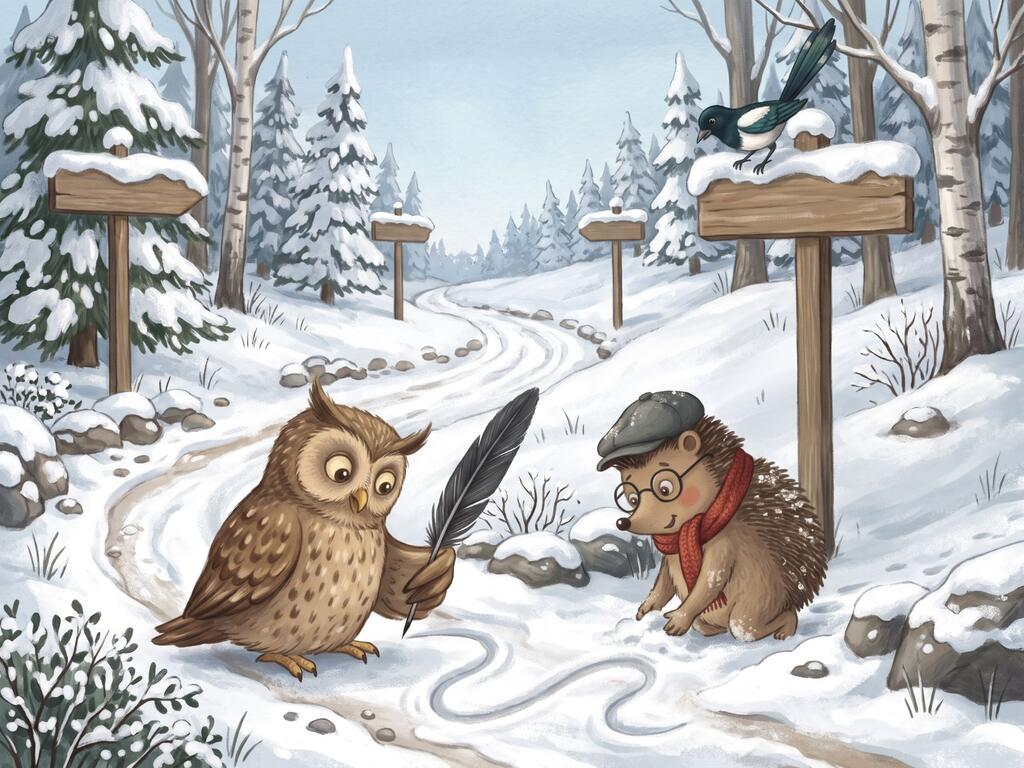
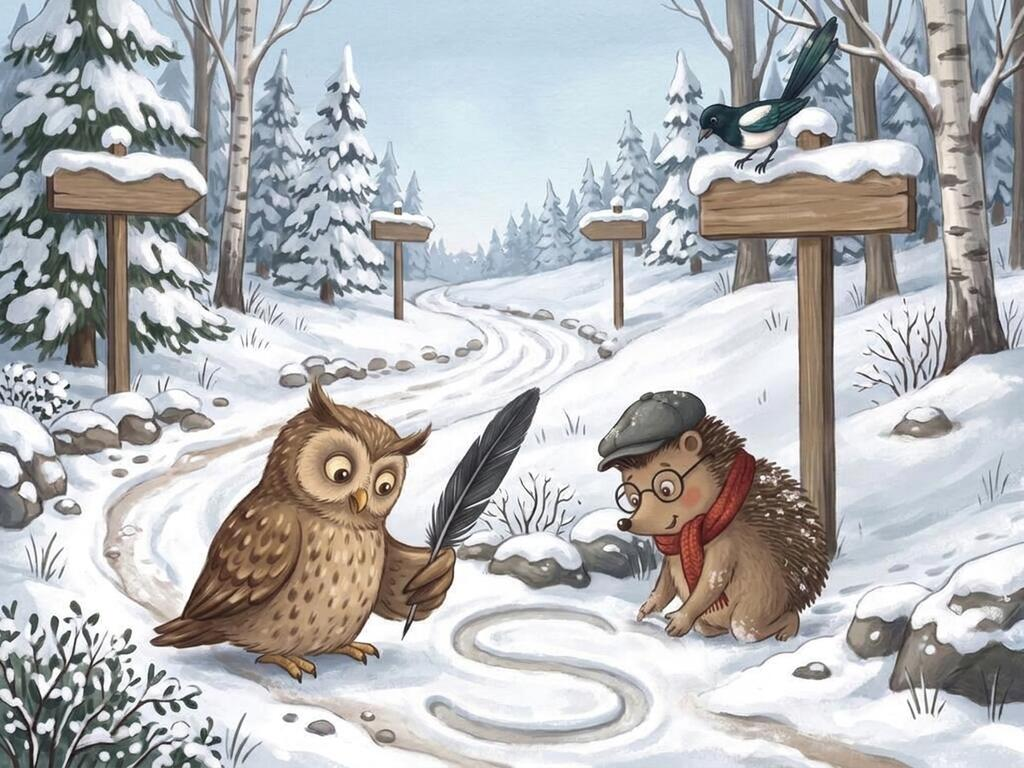
Julekalenderen dag 8: Ulla tegner et rigtigt S i sneen
Billede 2 og 3 viste en bølget streg. Nu står der et tydeligt S, ens
på begge billeder, og brikken glimter i S'ets nederste bue.

Claude-Session: https://claude.ai/code/session_01JuJ2jhjKv5vpQpqD9x243Z

diff --git a/jul/js/kalender.js b/jul/js/kalender.js
@@ -506,7 +506,7 @@
           ]
         }
       ],
-      brik: { x: 0.5, y: 0.8 },
+      brik: { x: 0.54, y: 0.89 },
       opgave: {
         type: 'spor', bogstav: 'S', ord: 'S som i sne.', eksempel: 'sne',
         find: [{ rigtige: ['sol', 'slange'], andre: ['kat', 'hus'] }, { rigtige: ['sko', 'stol'], andre: ['mus', 'bil'] }]
